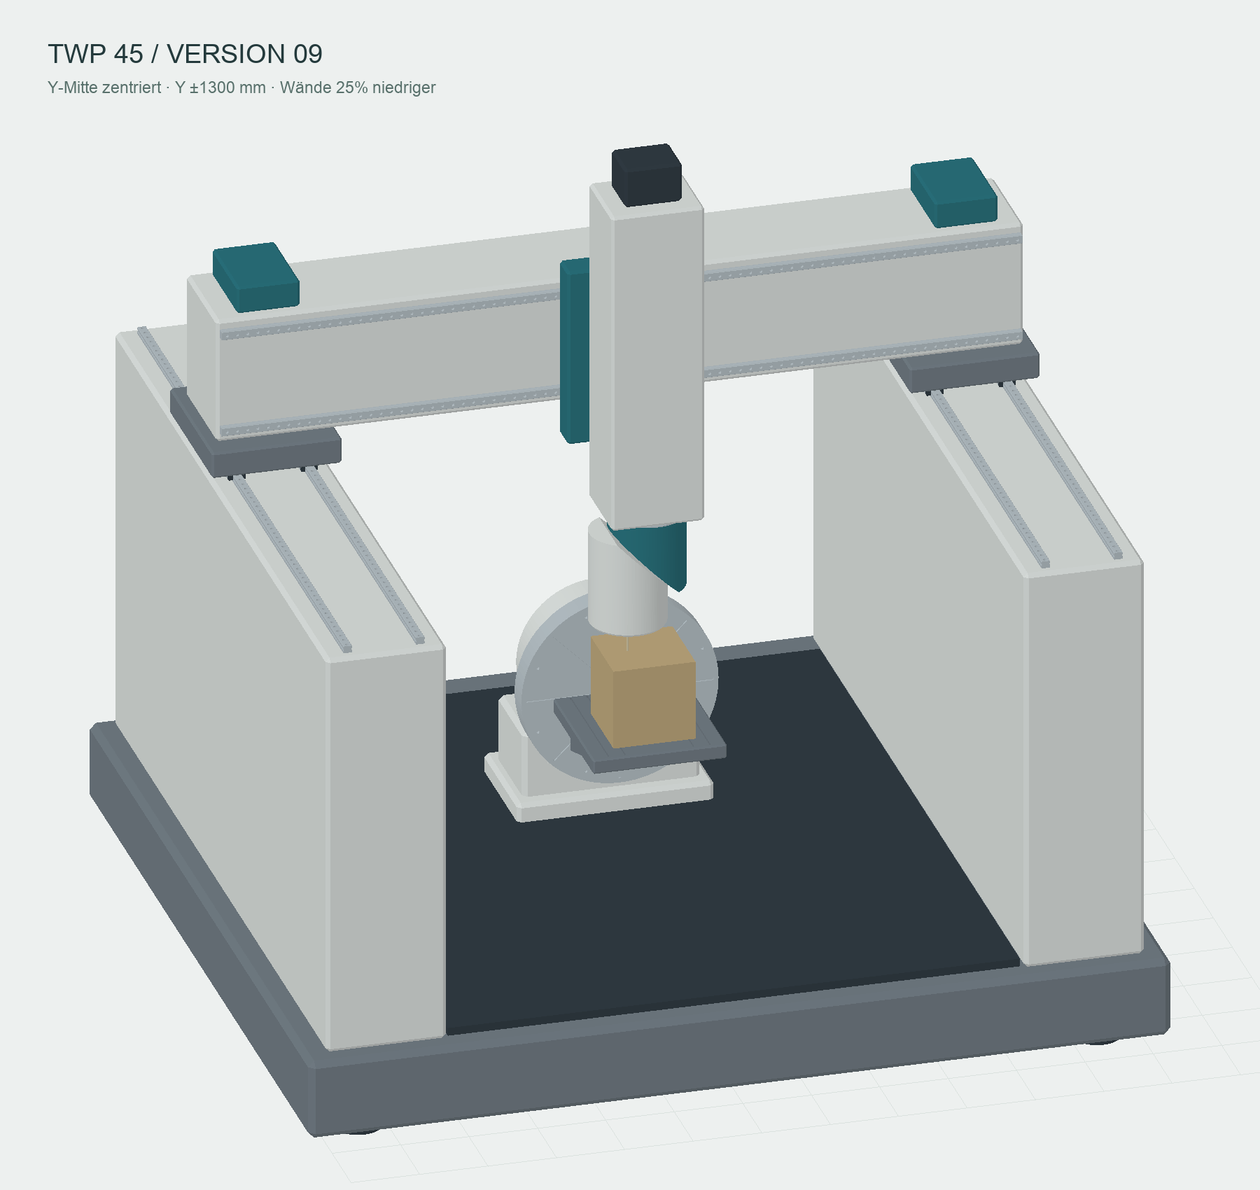
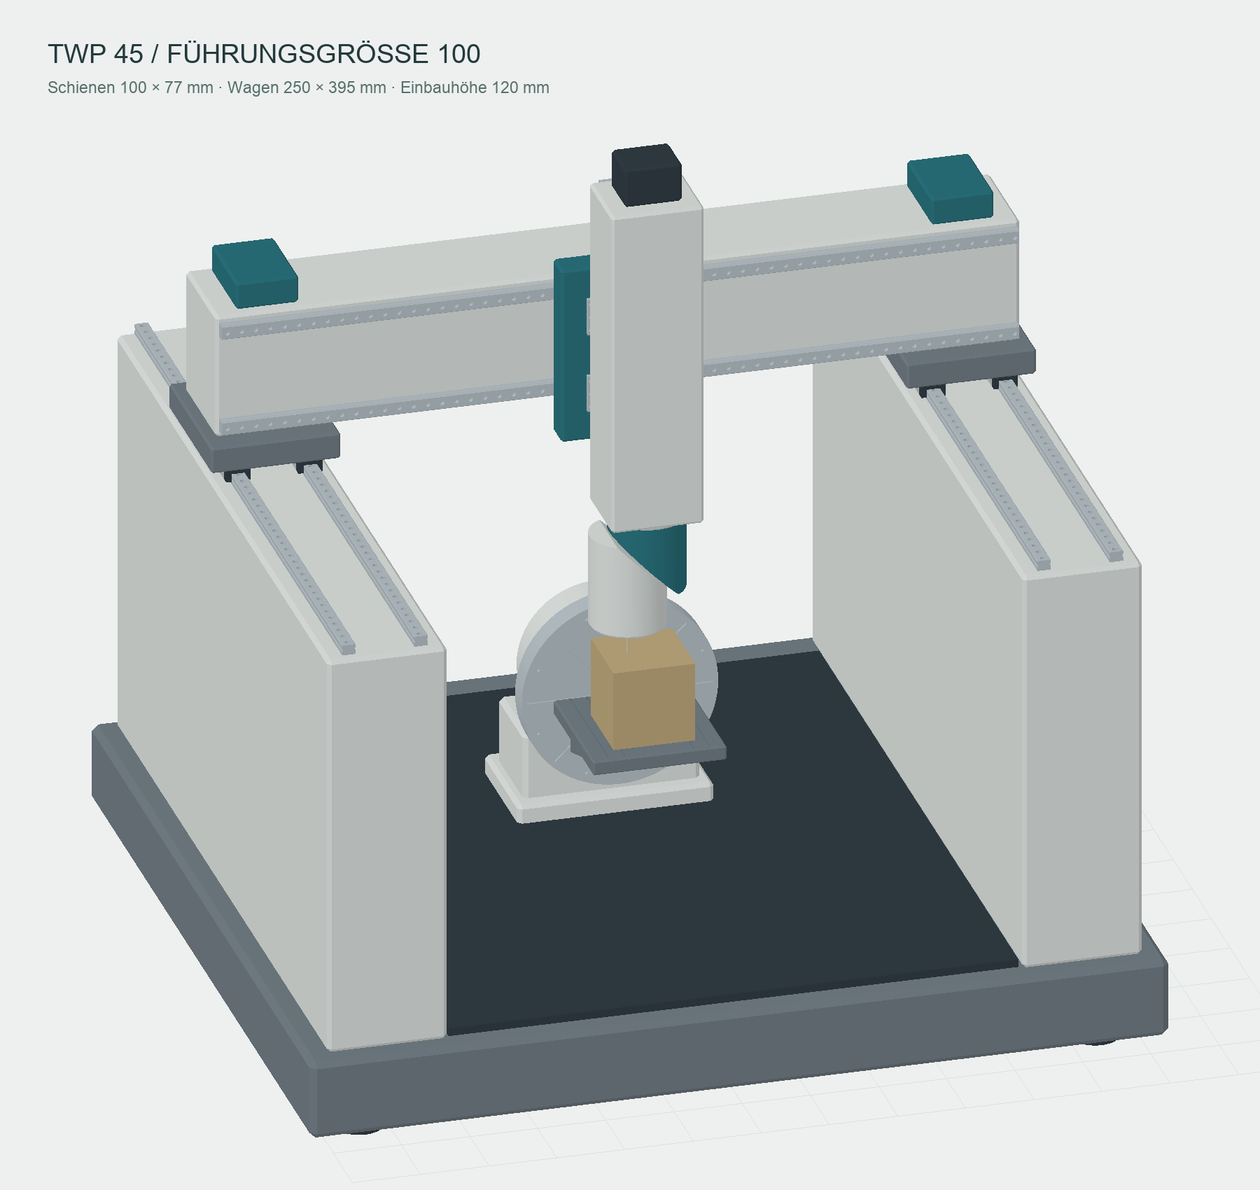
feat(sim): enlarge gantry guides to size 100

diff --git a/lcnc-webui/src/viewer/machineGantry.test.ts b/lcnc-webui/src/viewer/machineGantry.test.ts
@@ -2,7 +2,7 @@
 // through the same chain and collision engine used by the running viewer.
 import * as fs from "node:fs";
 import * as path from "node:path";
-import { Vector3 } from "three";
+import { Box3, Vector3 } from "three";
 import { describe, expect, it } from "vitest";
 import { buildChain, evalChainTip, tipInWorkFrame, type PartFrameMachine } from "./partFrame";
 import { TrsrnKins } from "./kins";
@@ -54,6 +54,19 @@ const bodies: CollisionBody[] = mj.parts.map((p: any) => ({
 const chain = buildChain(machine);
 const tmp = new Vector3();
 
+function bodyBounds(id: string, q: number[], select = (_p: Vector3) => true): Box3 {
+  evalChainTip(chain, q, [], tmp);
+  const body = bodies.find(b => b.id === id)!;
+  const node = chain.nodes.find(n => n.id === body.group);
+  const box = new Box3();
+  for (let i = 0; i < body.positions.length; i += 3) {
+    tmp.fromArray(body.positions, i);
+    if (node) tmp.applyMatrix4(node.world);
+    if (select(tmp)) box.expandByPoint(tmp);
+  }
+  return box;
+}
+
 describe("TWP wall-gantry configuration", () => {
   it("ships its own state/model and the complete seven-pin geometry", () => {
     expect(pins).toEqual({ "nut-angle": 45, "y-pivot": 140, "z-pivot": 480,
@@ -79,6 +92,48 @@ describe("TWP wall-gantry configuration", () => {
       expect(home).toBeLessThan(limits[j]![1]!);
     }
     expect(setting("HAL", "POSTGUI_HALFILE")).toBe("hallib/limit_window.hal");
+  });
+
+  it("fits the SRG100 guides, saddle plates and carriage without losing symmetry", () => {
+    const q = [0, 0, 0, 0, 0, 0];
+    const lane = (p: Vector3) => p.y < -2550;
+    const rail = bodyBounds("x_guide_rails", q, lane);
+    const block = bodyBounds("x_guide_blocks", q, lane);
+    expect(rail.max.y - rail.min.y).toBe(100);
+    expect(rail.max.z - rail.min.z).toBe(77);
+    expect(block.max.y - block.min.y).toBe(250);
+    expect(block.max.z - rail.min.z).toBe(120);
+    const plates = bodyBounds("x_saddle_plates", q);
+    const beam = bodyBounds("x_bridge_casting", q);
+    const blocks = bodyBounds("x_guide_blocks", q);
+    expect(plates.min.z).toBe(blocks.max.z);
+    expect(beam.min.z).toBe(plates.max.z);
+    expect(plates.max.z - plates.min.z).toBe(200);
+    const centre = (b: Box3) => (b.min.x + b.max.x) / 2;
+    expect(centre(plates)).toBeCloseTo(centre(beam), 4);
+    expect(centre(plates)).toBeCloseTo(centre(blocks), 4);
+    expect(plates.min.y + plates.max.y).toBe(0);
+    const carriage = bodyBounds("y_carriage", q);
+    expect(carriage.max.x - carriage.min.x).toBe(220);
+    expect(carriage.max.y - carriage.min.y).toBe(1020);
+    expect(bodyBounds("y_guide_blocks", q).max.x).toBe(carriage.min.x);
+    expect(bodyBounds("z_guide_blocks", q).min.x).toBe(carriage.max.x);
+  });
+
+  it("keeps the longer blocks fully supported across the existing linear travels", () => {
+    for (const [j, axis] of ["x", "y", "z"].entries()) {
+      for (const value of limits[j]!) {
+        const q = [0, 0, 0, 0, 0, 0];
+        q[j] = value;
+        const rails = bodyBounds(`${axis}_guide_rails`, q);
+        const blocks = bodyBounds(`${axis}_guide_blocks`, q)
+          .union(bodyBounds(`${axis}_guide_endcaps`, q));
+        const near = blocks.min.getComponent(j) - rails.min.getComponent(j);
+        const far = rails.max.getComponent(j) - blocks.max.getComponent(j);
+        expect(near, `${axis}=${value}: start engagement`).toBeGreaterThan(27);
+        expect(far, `${axis}=${value}: end engagement`).toBeGreaterThan(27);
+      }
+    }
   });
 
   it("centres the ram at Y0 and preserves the intentional neutral tool offset", () => {

diff --git a/scripts/freecad_twp_gantry.py b/scripts/freecad_twp_gantry.py
@@ -27,10 +27,18 @@ JOINT_BOSS_RADIUS = 190.0
 UPPER_BOTTOM = -160.0
 LOWER_TOP = 270.0
 HEAD_TOP = 400.0  # In the C/B frame; spindle nose is at -PZ.
-GUIDE = dict(series='HIWIN RGR65R / RGH65HA dimensional reference',
-             rail_width_mm=63, rail_height_mm=53, block_width_mm=126,
-             block_length_mm=295, block_body_length_mm=223,
-             assembly_height_mm=90, block_bottom_mm=12, rail_hole_pitch_mm=75)
+GUIDE = dict(series='THK SRG100LC dimensional reference',
+             rail_width_mm=100, rail_height_mm=77, block_width_mm=250,
+             block_length_mm=395, block_body_length_mm=280.2,
+             assembly_height_mm=120, block_bottom_mm=16, rail_hole_pitch_mm=105,
+             flange_thickness_mm=35, rail_counterbore_diameter_mm=39,
+             rail_counterbore_depth_mm=32)
+GUIDE_HEIGHT = GUIDE['assembly_height_mm']
+# Keep the 220 mm Y carriage and the existing ram/head datum: the two
+# thicker guide stacks move the beam 60 mm back, not the spindle forwards.
+Y_RAIL_X = -300 - GUIDE_HEIGHT * 2 - 220
+BRIDGE_SHIFT_X = Y_RAIL_X - (-700)
+BRIDGE_LIFT_Z = GUIDE_HEIGHT - 90
 WALL_BASE = -1050.0
 WALL_TOP = 2025.0  # 3075 mm wall height, 25% less than V8's 4100 mm.
 MACHINE_ZERO_Y = -PY  # C/ram centre at world Y=0 when joint Y=0.
@@ -70,30 +78,46 @@ def halfspace(t,positive):
     s.Placement=App.Placement(N*t, App.Rotation(V(0,0,1),N if positive else -N))
     return s
 
-# Common simplified RG65 section, shared by all three linear axes.
+# Common simplified SRG100 section, shared by all three linear axes.
 # Local X = travel, Y = transverse, Z = normal to the rail mounting plane.
 def guide_rail(length):
+    # Scale the independently drawn groove profile to the catalog envelope;
+    # this is a visual model, not a copy of the manufacturer's raceways.
     section=[(-29.5,0),(29.5,0),(31.5,2),(31.5,18),(27.5,23),
              (27.5,32),(31.5,37),(31.5,50),(28.5,53),(-28.5,53),
              (-31.5,50),(-31.5,37),(-27.5,32),(-27.5,23),(-31.5,18),(-31.5,2)]
+    section=[(y*GUIDE['rail_width_mm']/63,z*GUIDE['rail_height_mm']/53) for y,z in section]
     wire=Part.makePolygon([V(0,y,z) for y,z in section+[section[0]]])
     rail=Part.Face(wire).extrude(V(length,0,0))
     pitch=GUIDE['rail_hole_pitch_mm']
-    count=int((length-30)//pitch)+1
+    count=int((length-60)//pitch)+1
     edge=(length-(count-1)*pitch)/2
     # Symmetric mounting pattern; shallow counterbores keep the mesh compact.
-    cuts=[cyl(13,23,(edge+i*pitch,0,31)) for i in range(count)]
+    depth=GUIDE['rail_counterbore_depth_mm']
+    cuts=[cyl(GUIDE['rail_counterbore_diameter_mm']/2,depth+1,
+              (edge+i*pitch,0,GUIDE['rail_height_mm']-depth)) for i in range(count)]
     rail=rail.cut(compound(cuts)).removeSplitter()
     if length>3900:
-        rail=rail.cut(box(length/2-0.1,-40,-1,length/2+0.1,40,55))
+        width=GUIDE['rail_width_mm']/2+1
+        rail=rail.cut(box(length/2-0.1,-width,-1,length/2+0.1,width,GUIDE['rail_height_mm']+1))
     return rail
 
 def guide_block():
-    body=bevel(box(-111.5,-63,12,111.5,63,90),3)
-    ends=compound([bevel(box(x0,-61,12,x1,61,85),2)
-                   for x0,x1 in [(-147.5,-111.5),(111.5,147.5)]])
-    channel=box(-149,-32,0,149,32,54)
-    holes=compound([cyl(7,21,(x,y,70)) for x in (-60,0,60) for y in (-38,38)])
+    half_body=GUIDE['block_body_length_mm']/2
+    half_length=GUIDE['block_length_mm']/2
+    half_width=GUIDE['block_width_mm']/2
+    bottom=GUIDE['block_bottom_mm']
+    flange_z=GUIDE_HEIGHT-GUIDE['flange_thickness_mm']
+    # Broad mounting flange over a narrower roller body and dark end caps.
+    body=bevel(fuse([box(-half_body,-90,bottom,half_body,90,GUIDE_HEIGHT),
+                    box(-half_body,-half_width,flange_z,half_body,half_width,GUIDE_HEIGHT)]),3)
+    ends=compound([bevel(box(x0,-89,bottom,x1,89,GUIDE_HEIGHT-5),2)
+                   for x0,x1 in [(-half_length,-half_body),(half_body,half_length)]])
+    channel_width=GUIDE['rail_width_mm']/2+0.5
+    channel=box(-half_length-1,-channel_width,0,half_length+1,channel_width,GUIDE['rail_height_mm']+1)
+    # SRG100LC: six flange holes and three central blind holes, simplified.
+    holes=compound([cyl(8.9,36,(x,y,flange_z-0.5)) for x in (-100,0,100) for y in (-110,110)] +
+                   [cyl(8.9,23,(x,0,GUIDE_HEIGHT-22)) for x in (-100,0,100)])
     return body.cut(channel).cut(holes), ends.cut(channel)
 
 def guide_place(shape, origin, travel, normal):
@@ -199,26 +223,32 @@ add('x_side_walls',None,'paint',compound([
 add('leveling_pads',None,'dark',compound([
     cyl(175,90,(x,y,-1740)) for x in (-3800,-2000,-300,1100) for y in (-2700,2700)]))
 guide_set('x',None,'x_bridge',[(0,y+d,WALL_TOP) for y in (-2550,2550)
-    for d in (-265,265)],-4130,5380,[-1405,-785],(1,0,0),(0,0,1))
+    for d in (-265,265)],-4190,5440,[x+BRIDGE_SHIFT_X for x in (-1405,-785)],(1,0,0),(0,0,1))
 
 # Four X blocks on each wall carry a separate 200 mm saddle plate.
 add('x_saddle_plates','x_bridge','cast',compound([
-    bevel(box(-1650,y-475,WALL_TOP+90,-540,y+475,WALL_TOP+290),16) for y in (-2550,2550)]))
+    bevel(box(-1650+BRIDGE_SHIFT_X,y-475,WALL_TOP+GUIDE_HEIGHT,
+              -540+BRIDGE_SHIFT_X,y+475,WALL_TOP+GUIDE_HEIGHT+200),16) for y in (-2550,2550)]))
 # The crossbeam sits on both saddle plates. There are no moving columns.
-add('x_bridge_casting','x_bridge','paint',bevel(box(-1490,-2950,WALL_TOP+290,-700,2950,WALL_TOP+1240),25))
+add('x_bridge_casting','x_bridge','paint',bevel(box(-1490+BRIDGE_SHIFT_X,-2950,WALL_TOP+GUIDE_HEIGHT+200,
+    Y_RAIL_X,2950,WALL_TOP+1240+BRIDGE_LIFT_Z),25))
 add('x_drive_housings','x_bridge','accent',compound([
-    bevel(box(-1425,y-230,WALL_TOP+1240,-765,y+230,WALL_TOP+1450),18) for y in (-2550,2550)]))
-add('bridge_rear_panel','x_bridge','dark',box(-1497,-2250,WALL_TOP+380,-1491,2250,WALL_TOP+1150))
-guide_set('y','x_bridge','y_saddle',[(-700,0,z) for z in (WALL_TOP+390,WALL_TOP+1140)],
+    bevel(box(-1425+BRIDGE_SHIFT_X,y-230,WALL_TOP+1240+BRIDGE_LIFT_Z,
+              -765+BRIDGE_SHIFT_X,y+230,WALL_TOP+1450+BRIDGE_LIFT_Z),18) for y in (-2550,2550)]))
+add('bridge_rear_panel','x_bridge','dark',box(-1497+BRIDGE_SHIFT_X,-2250,WALL_TOP+380+BRIDGE_LIFT_Z,
+    -1491+BRIDGE_SHIFT_X,2250,WALL_TOP+1150+BRIDGE_LIFT_Z))
+guide_set('y','x_bridge','y_saddle',[(Y_RAIL_X,0,z+BRIDGE_LIFT_Z) for z in (WALL_TOP+390,WALL_TOP+1140)],
           -2925,5850,[PY-280,PY+280],(0,1,0),(1,0,0))
 
-# Y and Z block/rail pairs use the same 90 mm installation stack.
+# Y and Z block/rail pairs use the same 120 mm installation stack.
 # Rail-pair and block-pair centres coincide with their carriage centre lines.
-add('y_carriage','y_saddle','accent',bevel(box(-610,PY-470,WALL_TOP+90,-390,PY+470,WALL_TOP+1440),20))
-add('z_ram','xyz_head','paint',bevel(box(-300,PY-340,HEAD_TOP+PZ+10,300,PY+340,WALL_TOP+1320),22))
+add('y_carriage','y_saddle','accent',bevel(box(Y_RAIL_X+GUIDE_HEIGHT,PY-510,WALL_TOP+GUIDE_HEIGHT,
+    -300-GUIDE_HEIGHT,PY+510,WALL_TOP+1440+BRIDGE_LIFT_Z),20))
+add('z_ram','xyz_head','paint',bevel(box(-300,PY-340,HEAD_TOP+PZ+10,300,PY+340,WALL_TOP+1320+BRIDGE_LIFT_Z),22))
 guide_set('z','xyz_head','y_saddle',[(-300,y,0) for y in (PY-200,PY+200)],
-          950,2355,[WALL_TOP+465,WALL_TOP+1065],(0,0,1),(-1,0,0))
-add('z_top_motor','xyz_head','dark',bevel(box(-180,PY-210,WALL_TOP+1320,180,PY+210,WALL_TOP+1620),20))
+          920,2425,[z+BRIDGE_LIFT_Z for z in (WALL_TOP+465,WALL_TOP+1065)],(0,0,1),(-1,0,0))
+add('z_top_motor','xyz_head','dark',bevel(box(-180,PY-210,WALL_TOP+1320+BRIDGE_LIFT_Z,
+    180,PY+210,WALL_TOP+1620+BRIDGE_LIFT_Z),20))
 
 # Offset universal head following the user's section sketch. Both housings
 # are finite cylinders, so the 45-degree cut terminates at broad flat shoulders.
@@ -298,6 +328,7 @@ report={'parts':[],'reference_commit':'f8c5339','cad_pose':DEMO,
 for p in parts:
     shape=local_shapes[p['id']]
     mesh=MeshPart.meshFromShape(Shape=shape,LinearDeflection=0.65,AngularDeflection=0.14,Relative=False)
+    assert mesh.isSolid(), p['id']+' STL is not closed'
     mesh.write(str(STLDIR/p['file']))
     report['parts'].append({'id':p['id'],'valid':shape.isValid(),
         'solids':len(shape.Solids),'volume_mm3':shape.Volume,

diff --git a/examples/sim_config/machine-xyzacb-gantry/README.md b/examples/sim_config/machine-xyzacb-gantry/README.md
@@ -8,6 +8,8 @@ kinematics; it has a separate INI, parameter file and tool table.
 
 ![Wall gantry and offset universal head](overview.png)
 
+[Top view of the four X blocks and their saddle plate](x-guides.png)
+
 ## Run on the LinuxCNC host
 
 Use a checkout containing this example, with lcnc-suite installed from that
@@ -94,12 +96,23 @@ the physical slides.
 - Walls 3075 mm high with inner faces at Y=±2110 mm.
 - Two X rails per wall, two blocks per rail, four blocks under each separate
   1110 × 950 × 200 mm saddle plate; plates and crossbeam share their X centre.
-- Two Y rails/four blocks and two Z rails/four blocks. All use the same
-  simplified 63 × 53 mm rail / 126 × 295 mm block / 90 mm assembly dimensions.
+- Two Y rails/four blocks and two Z rails/four blocks. All three axes now use
+  size 100 instead of size 65: simplified THK SRG100LC dimensions, with
+  **100 × 77 mm rails, 250 × 395 mm flanged blocks and 120 mm assembly height**.
+  The mounting-hole pitch on the rails is 105 mm; the block's steel body is
+  280.2 mm long and its flange is 35 mm thick.
+- The larger blocks retain two blocks per rail and four X blocks per wall.
+  The 200 mm saddle plates and beam rise 30 mm with the taller X guides.
+  The beam and its saddle plates move 60 mm back to accommodate the larger
+  Y/Z stacks while retaining the 220 mm carriage thickness and existing
+  spindle datum. The Y carriage widens to 1020 mm. X rails extend to 5440 mm,
+  Z rails to 2425 mm; every block stays fully supported throughout travel,
+  with at least 27.5 mm to a rail end. X/Y rails use two joined segments.
 - Both head housings are Ø560 mm, with broad shoulders at the 45° cut and
   short Ø380 mm connecting bosses. The B joint has 4 mm minimum separation.
 
-`machineGantry.test.ts` checks the shipped INI and meshes, the model chain
+`machineGantry.test.ts` checks the shipped INI and meshes, guide dimensions,
+mounting-face alignment, plate symmetry and full-travel block support, the model chain
 against the oracle-backed `TrsrnKins` implementation over 303 poses, symmetric
 wall clearance, and an intended sequence of linear-limit and parked rotary
 moves through the actual collision sweep. The current BVH reports the close
@@ -112,8 +125,11 @@ The continuous wall bound includes every B/C orientation and full Y travel,
 with a 200 mm × Ø14 mm tool and a 1.3 mm housing tessellation allowance:
 at least **114 mm on either side**. Longer/wider tools need a new check.
 The CAD and compiled LinuxCNC kinematics were also checked off-machine during
-development. Live LinuxCNC startup, homing, TCP/plane switching and adapted
-TWP programs still need evaluation before promoting this to the default demo.
+development. Initial setup and operation of the example have been confirmed
+on a LinuxCNC host. This larger-guide revision has been checked off-machine;
+the adapted TWP demonstration programs and full live validation still precede
+promotion to the default demo. The existing INI, kinematic pins and offsets
+remain applicable to this geometry update.
 
 ## Rebuild or edit
 
@@ -145,6 +161,6 @@ npm run build
 
 This is a simulation concept, not a load-rated mechanical design. Geometry
 and generator are GPL-2.0-or-later; see [NOTICE](../../../NOTICE). No DMU meshes
-or manufacturer photographs are redistributed. Simplified guide dimensions
-reference [HIWIN's RGR-R series](https://www.hiwin.de/en/Products/Linear-guideways/Profile-rails/Roller-guides/Series-RGR/RGR-R/c/4515)
-and the RGH65HA dimensional table in its linear-guide catalogue.
+or manufacturer photographs are redistributed. Guide envelopes and mounting
+dimensions reference the [THK SRG100LC table, pages A1-430/431](https://tech.thk.com/en/products/pdfs/en_a01_430.pdf).
+Raceways, end caps and screw holes are simplified independent geometry.
